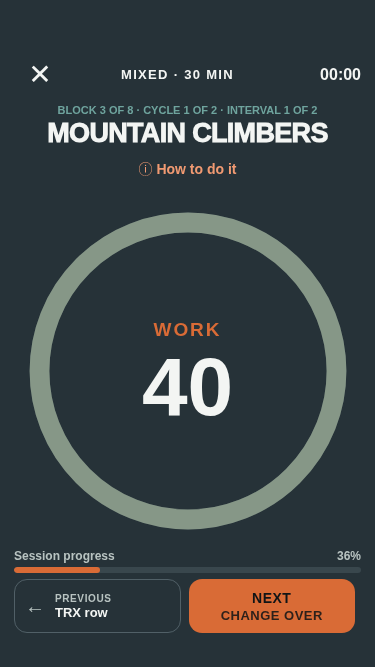
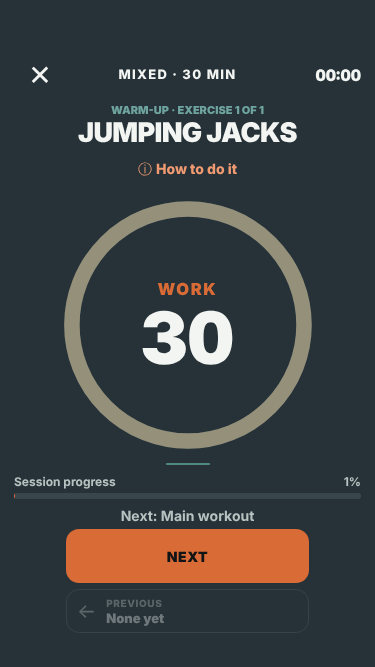
Refine shared workout player layout and navigation (#235)
- Restore the short teal divider below the circular timer in reserved timer-host
  space, keeping proportional ring sizing and the ring as the only pause target;
  cap the host at the ring maximum so timer, name and details centre as a group.
- Move the existing immediate-next label out of each primary button into one
  uniformly muted "Next: ..." line above it (hidden with its line reserved when
  no next activity applies); the button keeps only its action and references
  the label via aria-describedby. Label/state logic is unchanged.
- Centre the primary action at 70% of content width (capped at 340px) on normal
  portrait phones; Previous and Coach Skip work follow at the same width with
  unchanged DOM/focus order. Short (<=580px) viewports keep one reserved row;
  wide landscape rows centre the primary action.
- Absorb sub-pixel name overflow with a 2px stage inset so a rest state no
  longer flaps into player-reflow in current Chromium.
- Extend verify-player-layout.py metrics and the HTML structure test with
  targeted #235 assertions; refresh existing viewport screenshots and docs.

Claude-Session: https://claude.ai/code/session_01TzURSw1gHVLgyX8MbFQwf4

diff --git a/index.html b/index.html
@@ -85,7 +85,7 @@
   #workoutPlayer{padding:16px 20px calc(24px + env(safe-area-inset-bottom));overflow:hidden}.workout-player-top{width:100%;display:grid;grid-template-columns:52px 1fr 72px;align-items:center}.workout-player-top .routine-name{text-align:center}.elapsed{font-size:16px;font-weight:900;font-variant-numeric:tabular-nums;text-align:right}.workout-stage{flex:1;display:flex;flex-direction:column;align-items:center;justify-content:center;text-align:center;padding:22px 0 12px}.movement-progress{font-size:12px;font-weight:900;letter-spacing:.13em;text-transform:uppercase;color:var(--rest);margin-bottom:18px}.workout-exercise{font-size:clamp(30px,8vw,46px);line-height:1.04;font-weight:950;text-transform:uppercase;letter-spacing:-.025em;margin:0;max-width:600px}.workout-target{font-size:23px;font-weight:900;margin-top:16px;color:var(--work)}.workout-side-note{min-height:20px;margin-top:3px;color:var(--text-muted);font-size:13px;font-weight:700}.workout-paused{min-height:20px;margin-top:14px;color:var(--rest);font-size:12px;font-weight:900;letter-spacing:.16em;text-transform:uppercase}.workout-stats{width:100%;display:grid;grid-template-columns:1fr 1fr;gap:10px;margin-top:20px}.workout-stat{border:0;background:var(--card);color:var(--card-text);border-radius:14px;padding:14px;text-align:left}.workout-stat-label{display:block;color:var(--card-muted);font-size:10px;font-weight:850;text-transform:uppercase;letter-spacing:.08em;margin-bottom:5px}.workout-stat-value{font-size:20px;font-weight:900;font-variant-numeric:tabular-nums}.overall-progress{width:100%;margin-top:14px}.progress-label{display:flex;justify-content:space-between;align-items:center;color:var(--text-muted);font-size:12px;font-weight:750;margin-bottom:7px}.progress-track{height:9px;background:var(--surface);border-radius:999px;overflow:hidden}.progress-fill{height:100%;width:0;background:var(--work);border-radius:999px;transition:width .3s ease}.workout-actions{width:100%;display:flex;flex-direction:column;gap:20px;margin-top:14px}.workout-secondary-controls{display:grid;grid-template-columns:1fr 1fr;gap:12px}.previous-btn{width:100%;min-height:54px;margin:0;border:1px solid var(--surface-2);background:transparent;color:var(--text-muted);border-radius:13px;padding:8px 14px;text-align:left;display:flex;align-items:center;gap:10px}.previous-btn:disabled{opacity:.36;cursor:default}.previous-arrow{font-size:20px}.previous-copy{display:flex;flex-direction:column;gap:1px;font-size:10px;font-weight:850;text-transform:uppercase;letter-spacing:.06em}.previous-copy strong{color:var(--text);font-size:13px;letter-spacing:0;text-transform:none}.complete-btn{width:100%;flex:none}
 
   .page-header{display:flex;align-items:center;justify-content:space-between;gap:12px;margin:5px 0 25px}.page-header h1{font-size:32px;line-height:1;margin:0;font-weight:950;letter-spacing:-.04em}.page-header-copy{margin:-11px 0 24px;color:var(--text-muted);font-size:14px;line-height:1.45}.back-btn{border:0;background:transparent;color:var(--text);min-width:44px;min-height:44px;font-size:25px;padding:0;text-align:left}.header-spacer{width:44px}
-  .workout-paused{border:0;background:transparent;cursor:pointer;padding:12px;min-height:44px;font:inherit;color:var(--rest);font-weight:900}.workout-paused:focus-visible{outline:3px solid var(--rest);outline-offset:3px}.workout-ring-host{display:flex;justify-content:center;padding-bottom:12px}.complete-btn{display:flex;flex-direction:column;align-items:center;justify-content:center;gap:2px}.complete-action{font-weight:900}.complete-next{font-size:13px;font-weight:700;opacity:.85;max-width:100%;overflow:hidden;text-overflow:ellipsis;white-space:nowrap}.workout-secondary-controls>*{min-width:0}.workout-secondary-controls .ctrl-btn{white-space:normal;overflow-wrap:anywhere}
+  .workout-paused{border:0;background:transparent;cursor:pointer;padding:12px;min-height:44px;font:inherit;color:var(--rest);font-weight:900}.workout-paused:focus-visible{outline:3px solid var(--rest);outline-offset:3px}.workout-ring-host{display:flex;justify-content:center;padding-bottom:12px}.complete-btn{display:flex;flex-direction:column;align-items:center;justify-content:center;gap:2px}.complete-action{font-weight:900}.workout-secondary-controls>*{min-width:0}.workout-secondary-controls .ctrl-btn{white-space:normal;overflow-wrap:anywhere}
   .generator-card{background:var(--card);color:var(--card-text);border-radius:20px;padding:20px;margin-bottom:14px}.generator-card h2{font-size:12px;text-transform:uppercase;letter-spacing:.12em;margin:0 0 13px;color:var(--card-muted)}
   .choice-row{display:grid;gap:8px}.duration-row{grid-template-columns:repeat(5,1fr)}.focus-row{grid-template-columns:repeat(3,1fr)}.choice-btn{border:1px solid #cdd4d1;background:transparent;color:var(--card-text);border-radius:11px;padding:13px 5px;font-size:13px;font-weight:850}.choice-btn:disabled{opacity:.45;cursor:default}.family-row{grid-template-columns:repeat(2,minmax(0,1fr))}.choice-btn.selected{border-color:var(--work);background:#f3ded3;color:var(--work-dark)}
   .generator-options{margin:0 0 14px}.generator-options summary{cursor:pointer;list-style:none;display:flex;align-items:center;gap:8px;min-height:44px;padding:0 4px;color:var(--text-muted);font-size:13px;font-weight:850}.generator-options summary::-webkit-details-marker{display:none}.generator-options summary:focus-visible{outline:3px solid var(--rest);outline-offset:3px;border-radius:10px}.generator-options summary::after{content:'+';margin-left:auto;width:25px;height:25px;border-radius:50%;display:grid;place-items:center;background:var(--surface);color:var(--text-muted);font-size:16px}.generator-options[open] summary::after{content:'−'}.generator-options-value{color:var(--work-light)}.generator-options .generator-card{margin:6px 0 0}.body-focus-row{grid-template-columns:repeat(4,1fr)}.difficulty-row{grid-template-columns:repeat(3,1fr)}
@@ -336,7 +336,10 @@
         <button class="workout-paused hidden" id="routinePause" type="button" aria-pressed="false" onclick="togglePause()">Pause</button>
       </div>
     </div>
-    <div class="controls"><button class="ctrl-btn ctrl-primary complete-btn" id="skipPhaseBtn" type="button" onclick="skipPhase()"><span class="complete-action" id="routineNextAction">Next</span><span class="complete-next hidden" id="routineNextName"></span></button></div>
+    <div class="controls">
+      <p class="next-preview"><span>Next:</span> <span class="hidden" id="routineNextName"></span></p>
+      <button class="ctrl-btn ctrl-primary complete-btn" id="skipPhaseBtn" type="button" aria-describedby="routineNextName" onclick="skipPhase()"><span class="complete-action" id="routineNextAction">Next</span></button>
+    </div>
   </main>
 
   <main id="workoutPlayer" class="screen hidden">
@@ -406,11 +409,12 @@
     </div>
     <div class="workout-actions">
       <p id="coachPlayerError" class="coach-error" role="alert"></p>
+      <p class="next-preview"><span>Next:</span> <span class="hidden" id="completeMovementNext"></span></p>
       <div class="workout-secondary-controls">
         <button class="previous-btn" id="previousWorkoutBtn" type="button" onclick="previousWorkoutMovement()" disabled><span class="previous-arrow" aria-hidden="true">←</span><span class="previous-copy"><span>Previous</span><strong id="previousWorkoutName">None yet</strong></span></button>
-        <button class="ctrl-btn ctrl-primary complete-btn" id="completeMovementBtn" type="button" onclick="completeWorkoutMovement()"><span class="complete-action" id="completeMovementAction">Next</span><span class="complete-next hidden" id="completeMovementNext"></span></button>
+        <button class="ctrl-btn ctrl-primary complete-btn" id="completeMovementBtn" type="button" aria-describedby="completeMovementNext" onclick="completeWorkoutMovement()"><span class="complete-action" id="completeMovementAction">Next</span></button>
+        <button class="ctrl-btn ctrl-secondary hidden" id="coachSkipBtn" type="button" onclick="generatedSkipWork()">Skip work</button>
       </div>
-      <button class="ctrl-btn ctrl-secondary hidden" id="coachSkipBtn" type="button" onclick="generatedSkipWork()">Skip work</button>
     </div>
   </main>
 

diff --git a/css/player-layout.css b/css/player-layout.css
@@ -6,15 +6,18 @@
   container:player-viewport / size;
 }
 #player,#workoutPlayer{
+  --ring-divider-space:18px;--player-primary-width:min(70%,340px);
   position:relative;overflow:hidden;gap:6px;
   padding:6px max(14px,env(safe-area-inset-right)) max(8px,env(safe-area-inset-bottom)) max(14px,env(safe-area-inset-left));
 }
 .player-top,.workout-player-top{flex:none;min-height:44px}
 .routine-name{overflow-wrap:anywhere;line-height:1.2}
 .routine-stage,.workout-stage{
-  flex:1;min-height:0;width:100%;padding:0;display:flex;
+  flex:1;min-height:0;width:100%;padding:0 0 2px;display:flex;
   flex-direction:column;align-items:center;justify-content:center;gap:4px;text-align:center;
 }
+/* The 2px bottom padding absorbs the tight display line-height's sub-pixel text
+   overflow when a filled timer host leaves the name last, so fit does not flap. */
 .routine-stage>*,.workout-stage>*{flex-shrink:0;max-width:100%}
 .routine-ring-host,.workout-ring-host{
   flex:1 1 0;min-height:0;width:100%;padding:0;display:grid;place-items:center;
@@ -26,7 +29,12 @@
   width:min(100cqw,100cqh,330px);height:auto;aspect-ratio:1;margin:0;
   container:timer / inline-size;
 }
-:is(#player,#workoutPlayer) .ring-wrap::after{display:none}
+/* The short teal divider sits in space the timer host reserves below the ring, so
+   the ring keeps its proportional size. It is decoration, not a pause target. Once
+   the ring reaches its maximum, the host stops growing and the stage centres the
+   timer, name and details as one group. */
+:is(#player,#workoutPlayer) :is(.routine-ring-host,.workout-ring-host){padding-bottom:var(--ring-divider-space,18px);max-height:calc(330px + var(--ring-divider-space,18px))}
+:is(#player,#workoutPlayer) .ring-wrap::after{bottom:calc(var(--ring-divider-space,18px) * -.6);border-radius:1px;pointer-events:none}
 :is(#player,#workoutPlayer) .phase-label{font-size:clamp(12px,6.4cqw,19px);margin-bottom:2.4cqw}
 :is(#player,#workoutPlayer) .timer-num{font-size:clamp(36px,28cqw,82px)}
 :is(#player,#workoutPlayer) .reps-num{font-size:clamp(12px,5.8cqw,17px);margin-top:3cqw}
@@ -43,12 +51,20 @@
 .workout-stat-label{margin:0 0 2px}.workout-stat-value{font-size:17px}
 :is(#player,#workoutPlayer) .overall-progress{margin:0;flex:none}
 .progress-label{margin-bottom:4px}.progress-track{height:6px}
-.workout-actions,.controls{flex:none;margin:0;width:100%;gap:6px}
-/* Skip and navigation share a reserved row, including on Coach rep work. */
-.workout-actions{display:grid;grid-template-columns:minmax(0,1fr) auto;align-items:stretch}
-.workout-secondary-controls{gap:8px;min-width:0}
-.workout-actions>.ctrl-btn{max-width:100px}
+/* The reserved action footer: the immediate-next preview, then the centred primary
+   action. Previous and Coach Skip work follow it at the same width in the workout
+   player; DOM and focus order stay Previous, primary, Skip work. */
+.workout-actions,.controls{flex:none;margin:0;width:100%;display:flex;flex-direction:column;align-items:center;gap:4px}
+.workout-actions>.coach-error{align-self:stretch}
+.next-preview{flex:none;margin:0;max-width:100%;min-height:1.3em;color:var(--text-muted);font-size:14px;font-weight:650;line-height:1.3;text-align:center;overflow:hidden;text-overflow:ellipsis;white-space:nowrap}
+.next-preview:has(>.hidden){visibility:hidden}
+.controls>.complete-btn{flex:none;width:var(--player-primary-width)}
+.controls>.next-preview{margin-top:4px}
+.workout-secondary-controls{display:grid;width:var(--player-primary-width);grid-template-columns:minmax(0,1fr) auto;grid-template-areas:"primary primary" "previous skip";gap:6px;min-width:0}
+.workout-secondary-controls:has(>#coachSkipBtn.hidden){grid-template-areas:"primary primary" "previous previous"}
+#completeMovementBtn{grid-area:primary}#previousWorkoutBtn{grid-area:previous}#coachSkipBtn{grid-area:skip;margin:0;white-space:nowrap}
 :is(#player,#workoutPlayer) :is(.ctrl-btn,.previous-btn){min-height:54px;padding:8px 10px}
+:is(#player,#workoutPlayer) .workout-secondary-controls>:is(#previousWorkoutBtn,#coachSkipBtn){min-height:44px;padding:4px 10px}
 .previous-copy{min-width:0}.previous-copy strong{max-width:100%;overflow:hidden;text-overflow:ellipsis;white-space:nowrap}
 /* Disclosures keep their native summary and keyboard behaviour. Their expanded
    contents occupy a reading/editing surface bounded above the navigation row. */
@@ -127,4 +143,20 @@
    space as well; its own Close control remains reachable above reserved nav. */
 @container player-viewport (max-height:440px){
   .player-detail-surface{top:6px}
+}
+/* Short and landscape viewports keep Previous, the primary action and Skip work in
+   one reserved row, with the preview directly above the primary action. */
+@container player-viewport (max-height:580px){
+  :is(#player,#workoutPlayer){--ring-divider-space:10px}
+  .workout-actions,.controls{row-gap:1px}
+  .workout-actions{display:grid;grid-template-columns:minmax(0,1fr) minmax(0,1fr) auto;grid-template-areas:"error error error" ". preview ." "previous primary skip";column-gap:8px;align-items:stretch}
+  .workout-actions:has(#coachSkipBtn.hidden){grid-template-columns:minmax(0,1fr) minmax(0,1fr);grid-template-areas:"error error" ". preview" "previous primary"}
+  .workout-actions>.coach-error{grid-area:error}.workout-actions>.next-preview{grid-area:preview}
+  .workout-secondary-controls{display:contents}
+  :is(#player,#workoutPlayer) .workout-secondary-controls>:is(#previousWorkoutBtn,#coachSkipBtn){min-height:54px}
+  .next-preview{font-size:12px;line-height:15px;min-height:15px}
+}
+/* Wide landscape rows can afford a centred primary action between Previous and Skip work. */
+@container player-viewport (max-height:480px) and (min-width:540px){
+  .workout-actions,.workout-actions:has(#coachSkipBtn.hidden){grid-template-columns:minmax(0,1fr) minmax(0,1.4fr) minmax(0,1fr);grid-template-areas:"error error error" ". preview ." "previous primary skip"}
 }

diff --git a/tests/workout-navigation.test.js b/tests/workout-navigation.test.js
@@ -157,7 +157,12 @@ test('Coach result actuals survive ring pause and failed timed saves resume the 
 
 test('shared player surface wires the ring, the pause control and one primary action in the HTML',()=>{
   const html=fs.readFileSync('index.html','utf8');assert.doesNotMatch(html,/workoutPauseBtn/);
-  assert.match(html,/id="completeMovementBtn"[^>]*><span class="complete-action" id="completeMovementAction">Next<\/span><span class="complete-next hidden" id="completeMovementNext">/);
+  // #235: each player shows one muted preview above its primary action, never inside it.
+  for(const [name,button,action] of [['routineNextName','skipPhaseBtn','routineNextAction'],['completeMovementNext','completeMovementBtn','completeMovementAction']]){
+    assert.match(html,new RegExp(`<p class="next-preview"><span>Next:</span> <span class="hidden" id="${name}"></span></p>[\\s\\S]*?<button[^>]*id="${button}"[^>]*aria-describedby="${name}"[^>]*><span class="complete-action" id="${action}">Next</span></button>`));
+  }
+  assert.doesNotMatch(html,/complete-next|first-letter/);
+  const css=fs.readFileSync('css/player-layout.css','utf8');assert.doesNotMatch(css,/ring-wrap::after\{display:none/);assert.doesNotMatch(css,/first-letter/);
   assert.match(html,/id="workoutPausedState" type="button" aria-pressed="false" onclick="toggleWorkoutPause\(\)"/);
 });
 

diff --git a/scripts/verify-player-layout.py b/scripts/verify-player-layout.py
@@ -41,6 +41,14 @@ METRICS = """({optional=false,allowReflow=false}={})=>{
    const hit=document.elementFromPoint(r.x+r.width/2,r.y+r.height/2);
    if(!e.contains(hit))failures.push(e.id+': covered');
  }
+ // #235: one muted preview directly above a centred primary action, never inside it.
+ const primary=controls.querySelector('#skipPhaseBtn,#completeMovementBtn'),preview=controls.querySelector('.next-preview'),pb=box(primary);
+ if(primary.querySelector('.next-preview,#routineNextName,#completeMovementNext')||!preview)failures.push('preview inside primary');
+ else if(getComputedStyle(preview).visibility==='visible'&&(box(preview).bottom>pb.y+1||preview.textContent.trim()==='Next:'))failures.push('preview misplaced or empty');
+ if(preview&&new Set([preview,...preview.querySelectorAll('*')].map(e=>getComputedStyle(e).color)).size>1)failures.push('preview colour not uniform');
+ const previous=controls.querySelector('#previousWorkoutBtn'),sameRow=previous&&visible(previous)&&Math.abs(box(previous).y-pb.y)<1;
+ if(!sameRow&&Math.abs(pb.x+pb.width/2-nav.x-nav.width/2)>1)failures.push('primary off centre');
+ if(!sameRow&&v.width<540&&Math.abs(pb.width/nav.width-.7)>.02)failures.push('primary not ~70% wide');
  let ring;
  if(!optional&&!allowReflow){
   const items=[...stage.querySelectorAll(':scope > *, .routine-main-column > *, .workout-main-column > *, .workout-timer-column > *')].filter(e=>visible(e)&&e.textContent.trim()&&box(e).height>0);
@@ -50,6 +58,8 @@ METRICS = """({optional=false,allowReflow=false}={})=>{
    ring=box(r);if(Math.abs(ring.width-ring.height)>0.1||ring.width<100)failures.push('ring geometry/legibility');
    const centre=box(r.querySelector('.ring-center'));
    if(Math.abs(centre.x+centre.width/2-ring.x-ring.width/2)>0.1||Math.abs(centre.y+centre.height/2-ring.y-ring.height/2)>0.1)failures.push('countdown off centre');
+   const divider=getComputedStyle(r,'::after'),dividerBottom=ring.bottom-parseFloat(divider.bottom);
+   if(divider.display==='none'||parseFloat(divider.width)<20||dividerBottom>box(r.parentElement).bottom+0.5)failures.push('timer divider missing or outside timer space');
    const fg=r.querySelector('.ring-fg');if(fg.getAttribute('r')!=='90'||getComputedStyle(fg).strokeWidth!=='12px')failures.push('canonical stroke changed');
    for(const text of r.querySelectorAll('.phase-label,.timer-num,.reps-num'))if(visible(text)){
     const t=box(text);if(t.x<ring.x||t.right>ring.right||t.y<ring.y||t.bottom>ring.bottom)failures.push('ring text clipped');

diff --git a/docs/PLAYER_VIEWPORT.md b/docs/PLAYER_VIEWPORT.md
@@ -108,8 +108,41 @@ pause, the timer at zero, the ended block, Coach Retry save and rotation. In Chr
 AMRAP-inclusive states (every fixture phase plus those AMRAP states) passed at the six viewports
 with no page overflow, at most 1px stage rounding at 667×375 and a smallest ring of 137px (375×540).
 
+### Shared action footer and timer divider (#235)
+
+Timed layouts restore the short teal divider below the ring. It is drawn in space
+the timer host reserves under the ring (18px, 10px on short viewports), so the ring
+keeps its proportional sizing, and it is not a pause target. Once the ring reaches
+its 330px maximum the host stops growing, so the stage centres the timer, divider,
+name and details as one group. A 2px stage bottom inset absorbs the display
+line-height's sub-pixel text overflow, which otherwise pushed one rest state into
+`player-reflow` in current Chromium.
+
+The immediate-next preview (`updateRoutineControls()` / `renderUpNext()`, unchanged)
+is a muted `Next: …` line above the primary button and is invisible, with its line
+reserved, when no next activity applies. On normal portrait phones the primary
+button is centred at 70% of the content width (capped at 340px). In the workout
+player, Previous (and Coach Skip work) follows at the same width, while DOM and
+focus order stay Previous, primary, Skip work. When the usable height is 580px or
+less, the workout player keeps one reserved row with Previous, the primary action
+and Skip work, the preview above the primary action. Wide landscape rows centre
+the primary action.
+
+The verifier now also checks that the preview is above and outside the primary
+action in one colour, the primary action is centred at ~70% wherever Previous is
+not in its row, and the divider is present inside the timer space. The Python
+script needs a developer-installed Playwright. For this change the same matrix,
+native entry checks and assertions were run through a Node Playwright port with
+Chromium 141. All 444 measured states passed with no page or normal-stage overflow.
+The smallest rings were 165px (375×667), 321px (393×852), 330px (430×932), 101px
+(375×540), 115px (320×568) and 163px (667×375). In every viewport the smallest was
+the deliberately long three-line density fixture with Skip work. Representative fixed,
+routine, Generator, Coach, AMRAP, EMOM, interval, Mobility and Athletic states were
+also inspected at 393×852, 375×540 and 667×375. These cover first, intermediate, final,
+paused and instruction-open states.
+
 The retained [measurement summary](images/player-viewport/measurements.json) and
-screenshots show the viewport evidence; running the script emits the full report
+screenshots (refreshed for #235) show the viewport evidence; running the script emits the full report
 and additional captures.
 
 | Example | Screenshot |

diff --git a/docs/PLAYER_TIMERS.md b/docs/PLAYER_TIMERS.md
@@ -41,8 +41,11 @@ so its supported navigation remains forward-only. EMOM minutes cannot be replaye
 density retains its recovery minimums and restrictions on revisiting ended blocks;
 AMRAP allows Previous only within the current round and never reopens an ended block.
 
-Every primary button previews only the immediate activity name. Side annotations,
-timing, reps, resistance, set counts and after-rest explanations are excluded.
+Each player previews only the immediate activity name, as one muted `Next: …` line
+directly above its primary button (#235); the button itself carries only its action
+and references the name with `aria-describedby`. The line is hidden when there is
+no valid next activity. Side annotations, timing, reps, resistance, set counts and
+after-rest explanations are excluded.
 The primary advance action uses **Next** consistently (#172); existing explicit
 work-completion, finish and Coach feedback paths retain their distinct semantics.
 
